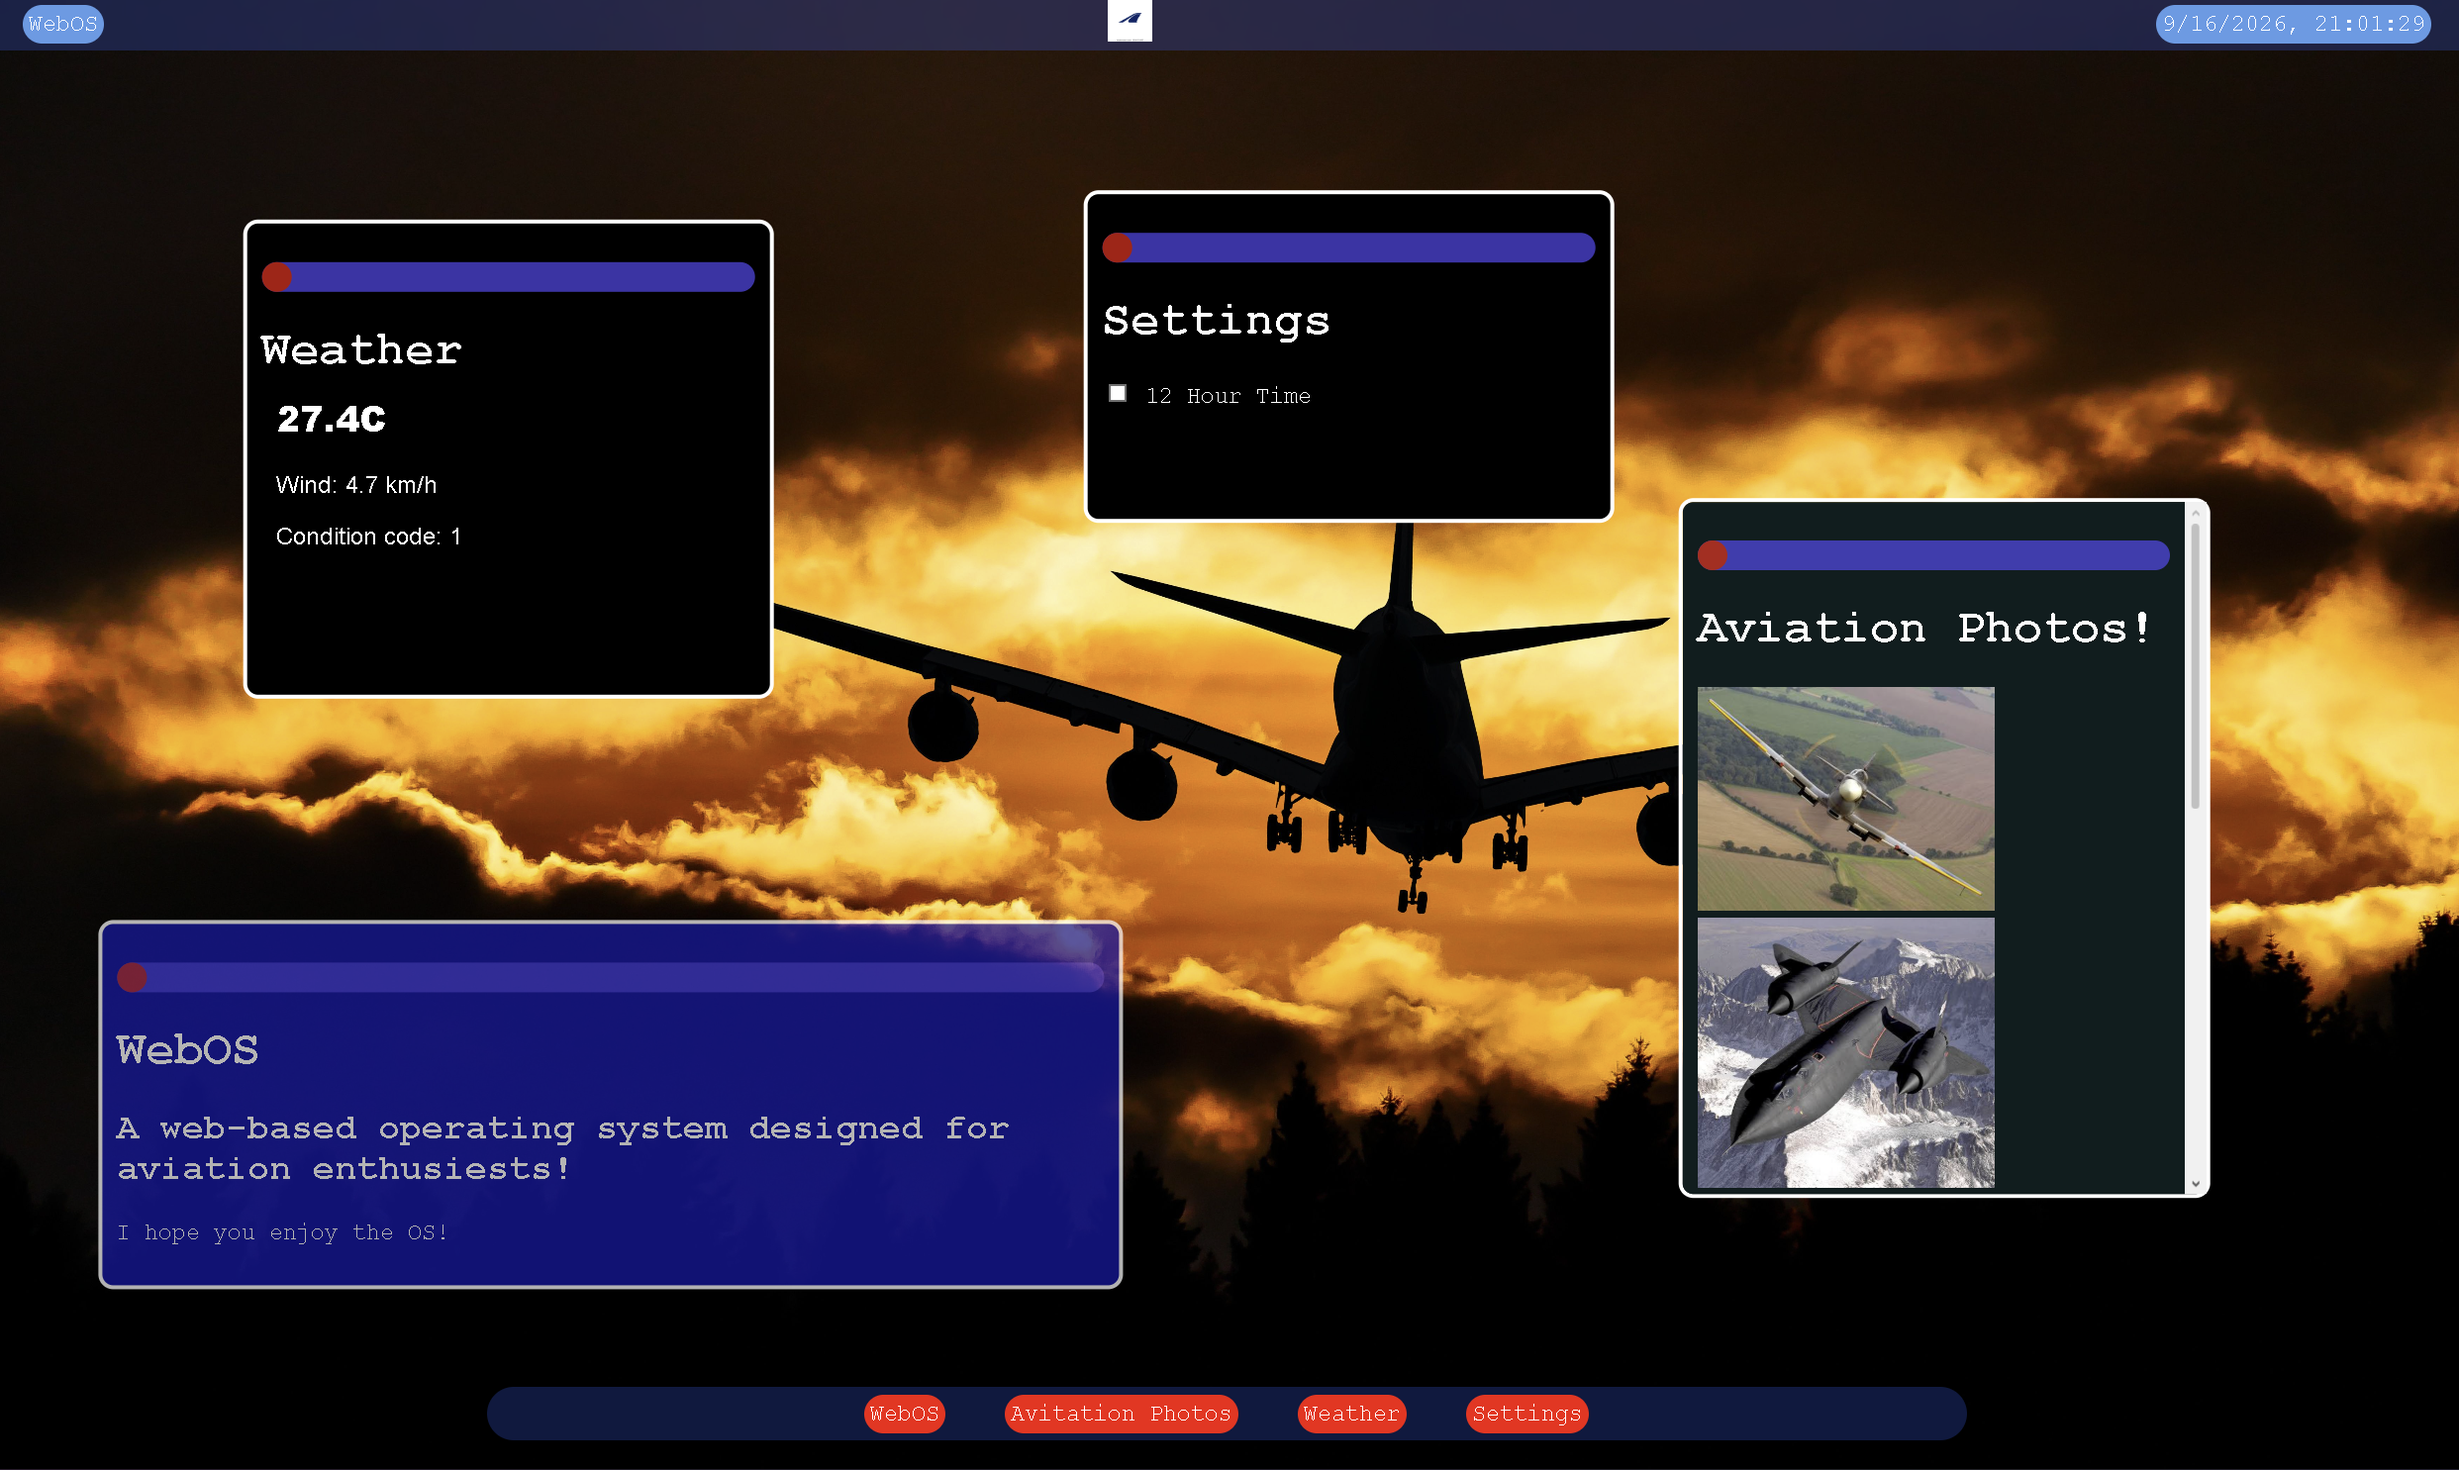
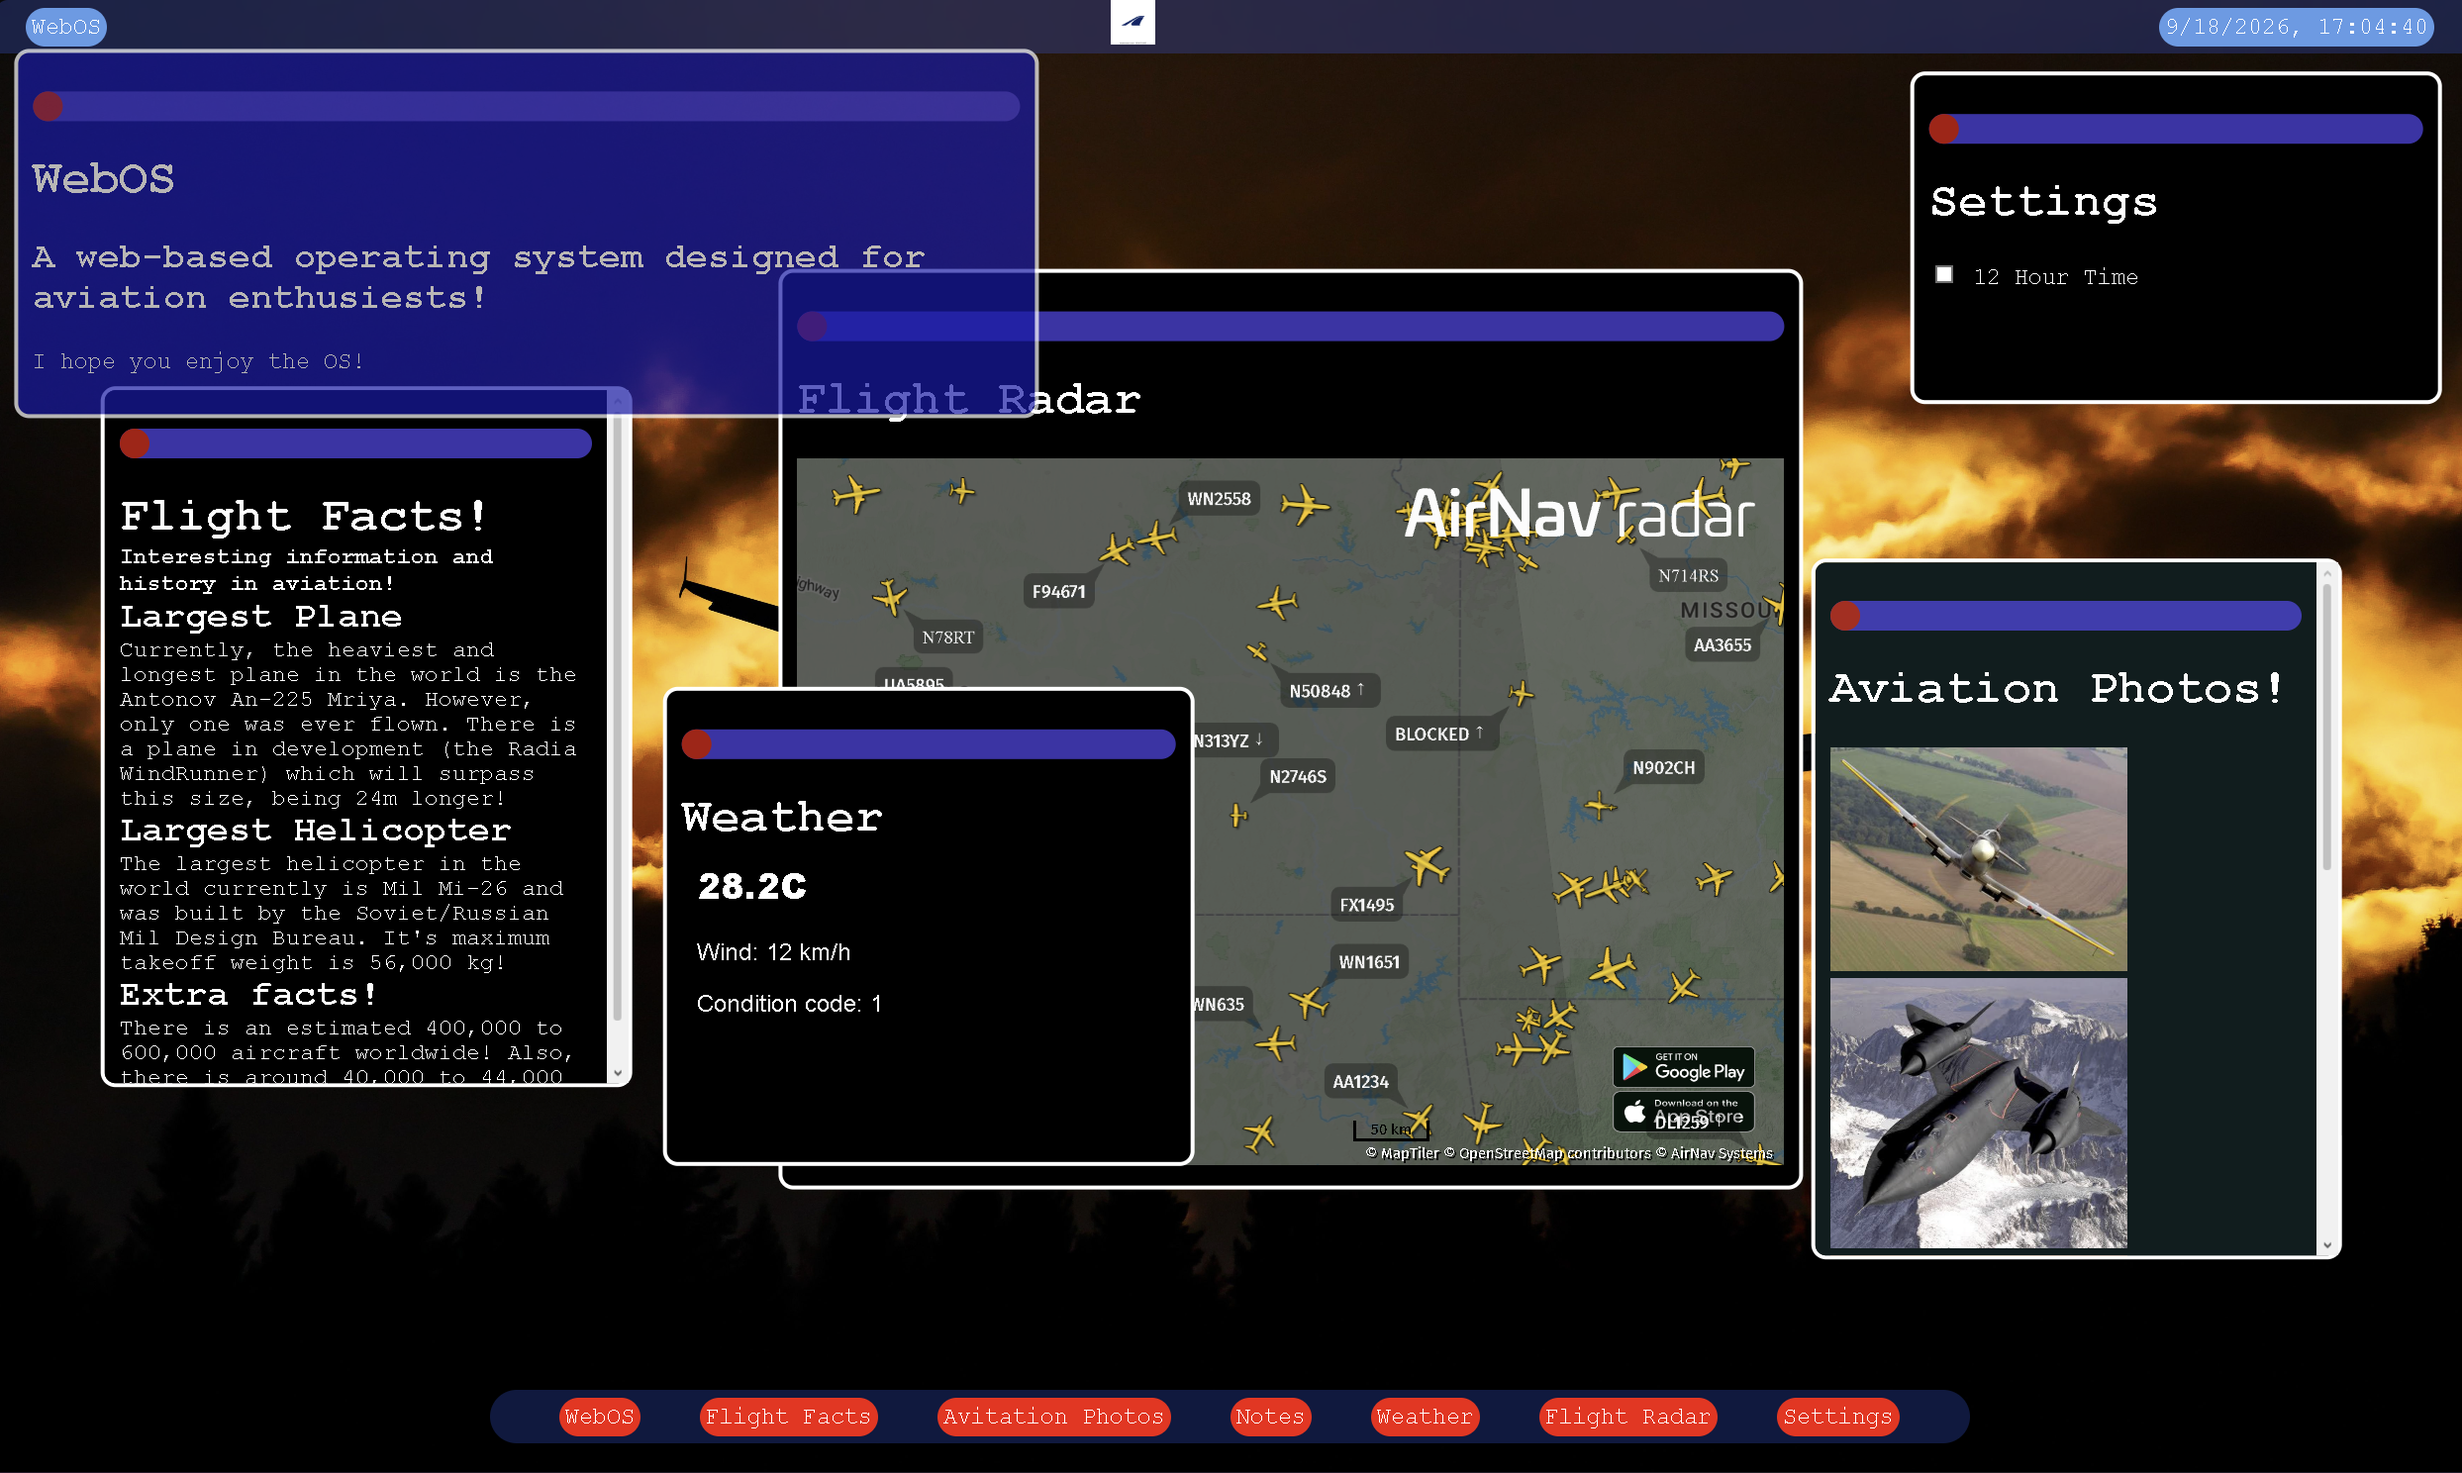
commit

diff --git a/index.html b/index.html
@@ -11,7 +11,7 @@
             font-family: 'Courier New', Courier, monospace;
         }
     </style>
-    <title>Web OS</title>
+    <title>WebOS</title>
     <link rel="icon" type="image/x-icon" href="images/Aeroplane logo.webp">
     <link rel="stylesheet" href="style.css">
 </head>
@@ -38,13 +38,38 @@
             </div>
             </p>
         </div>
-        <h1>Web OS</h1>
+        <h1>WebOS</h1>
         <h2>A web-based operating system designed for aviation enthusiests!</h2>
         <p>I hope you enjoy the OS!</p>
     </div>
 
 
-  
+    <div style="background-color:#000000;color:white;border:solid;padding:10px;position:absolute;border-radius:10px;width:20%;top:50%;left:15%;transform:translate(-50%, -50%);display:none;height:45%;overflow-y:auto;"
+        id="aboutme">
+        <div style="width:100%;background-color:rgb(78, 63, 243);opacity:70%;margin:0;border-radius:20px;cursor:pointer;height:20px;"
+            id="aboutmeheader">
+            <p style="cursor: pointer;">
+            <div id="aboutmeclose" style="background-color:red;border-radius:20px;width:20px;height:20px;margin-top:0;">
+            </div>
+            </p>
+        </div>
+        <h1 style="margin-bottom:0;">Flight Facts!</h1>
+        <h2 style="margin:0;color:rgb(255, 255, 255);font-size:15px;">Interesting information and history in aviation!</h2>
+        <h2 style="margin-bottom:0;">Largest Plane</h2>
+        <p style="margin:0;color:rgb(255, 255, 255);font-size:15px;">Currently, the heaviest and longest plane in the world is the
+            Antonov An-225 Mriya. However, only one was ever flown.
+            There is a plane in development (the Radia WindRunner) which will surpass this size, being 24m longer!
+        </p>
+        <h2 style="margin-bottom:0;">Largest Helicopter</h2>
+        <p style="margin:0;color:rgb(255, 255, 255);font-size:15px;">The largest helicopter in the world currently is Mil Mi-26 and
+            was built by the Soviet/Russian Mil Design
+            Bureau.
+            It's maximum takeoff weight is 56,000 kg!
+        </p>
+        <h2 style="margin-bottom:0;">Extra facts!</h2>
+        <p style="margin:0;color:rgb(255, 255, 255);font-size:15px;">There is an estimated 400,000 to 600,000 aircraft worldwide!
+            Also, there is around 40,000 to 44,000 airports worldwide!</p>
+    </div>
 
     <div style="background-color:#0b1d1e;color:white;border:solid;padding:10px;position:absolute;border-radius:10px;width:20%;top:50%;left:85%;transform:translate(-50%, -50%);display:none;height:45%;overflow-y:auto;"
         id="photos">
@@ -55,13 +80,32 @@
             </div>
             </p>
         </div>
-        <h1>Aviation Photos!</h1>
+        <h1>Aviation Photos!!!!</h1>
         <img src="images/Aviation 1.jpg" width="200">
         <img src="images/Aviation 2.jpg" width="200">
         <img src="images/Aviation 3.jpg" width="200">
         <img src="images/Aviation 4.jpg" width="200">
         <img src="images/Aviation 5.jpg" width="200">
     </div>
+
+
+
+    <div style="background-color:#060606;color:white;border:solid;padding:10px;position:absolute;border-radius:10px;width:20%;top:50%;left:55%;transform:translate(-50%, -50%);display:none;height:45%;"
+        id="notes">
+        <div style="width:100%;background-color:rgb(78, 63, 243);opacity:70%;margin:0;border-radius:20px;cursor:pointer;height:20px;"
+            id="notesheader">
+            <p style="cursor: pointer;">
+            <div id="notesclose" style="background-color:red;border-radius:20px;width:20px;height:20px;margin-top:0;">
+            </div>
+            </p>
+        </div>
+        <h1>Notes</h1>
+        <div style="max-width:500px;margin:auto;">
+            <textarea id="notepad" style="width:100%;height:200px;font-size:16px;background-color:beige;"></textarea>
+        </div>
+    </div>
+
+
 
     <div style="background-color:#000000;color:white;border:solid;padding:10px;position:absolute;border-radius:10px;width:20%;top:60%;left:35%;transform:translate(-50%, -50%);display:none;height:30%;"
         id="weather">
@@ -114,6 +158,19 @@
 
     </div>
 
+    <div style="background-color:#000000;color:white;border:solid;padding:10px;position:absolute;border-radius:10px;width:40%;top:40%;left:45%;transform:translate(-50%, -50%);display:none;height:60%;"
+        id="flights">
+        <div style="width:100%;background-color:rgb(78, 63, 243);opacity:70%;margin:0;border-radius:20px;cursor:pointer;height:20px;"
+            id="flightsheader">
+            <p style="cursor: pointer;">
+            <div id="flightsClose" style="background-color:red;border-radius:20px;width:20px;height:20px;margin-top:0;">
+            </div>
+            </p>
+        </div>
+        <h1>Flight Radar</h1>
+<iframe frameborder="0" scrolling="no" marginheight="0" marginwidth="0" width=100% height=80% loading="lazy" src="https://www.airnavradar.com/?widget=1&z=6&lat=37.60318&lng=-95.86094&hideAirportWeather=true&hideAirportCard=true&airportCardRight=true&hideFlightCard=true&showLabels=true&showFn=true"></iframe>
+
+
     </div>
 
     <div style="background-color:#000000;color:white;border:solid;padding:10px;position:absolute;border-radius:10px;width:20%;top:40%;left:65%;transform:translate(-50%, -50%);display:none;height:20%;"
@@ -136,11 +193,17 @@
     <div
         style="display:flex;justify-content:center;backdrop-filter: blur(5px); background-color: rgba(0, 94, 255, 0.25);width:60%;color:#fff;position:fixed;bottom:2%;left:20%;border-radius:20px;">
         <p style="margin:5px 20px 5px 20px;background-color:rgb(255, 0, 0);border-radius:20px;padding:4px;cursor:pointer;"
-            id="welcomeopen">Web OS</p>
+            id="welcomeopen">WebOS</p>
         <p style="margin:5px 20px 5px 20px;background-color:rgb(255, 0, 0);border-radius:20px;padding:4px;cursor:pointer;"
-            id="photosScreenOpen">Avitation Photographs</p>
+            id="aboutMeScreenOpen">Flight Facts</p>
+        <p style="margin:5px 20px 5px 20px;background-color:rgb(255, 0, 0);border-radius:20px;padding:4px;cursor:pointer;"
+            id="photosScreenOpen">Avitation Photos</p>
+        <p style="margin:5px 20px 5px 20px;background-color:rgb(255, 0, 0);border-radius:20px;padding:4px;cursor:pointer;"
+            id="notesOpen">Notes</p>
         <p style="margin:5px 20px 5px 20px;background-color:rgb(255, 0, 0);border-radius:20px;padding:4px;cursor:pointer;"
             id="weatherOpen">Weather</p>
+        <p style="margin:5px 20px 5px 20px;background-color:rgb(255, 0, 0);border-radius:20px;padding:4px;cursor:pointer;"
+            id="flightsOpen">Flight Radar</p>
         <p style="margin:5px 20px 5px 20px;background-color:rgb(255, 0, 0);border-radius:20px;padding:4px;cursor:pointer;"
             id="settingsOpen">Settings</p>
     </div>

diff --git a/script.js b/script.js
@@ -4,6 +4,9 @@ var welcomeScreen = document.querySelector("#welcome");
 var welcomeScreenClose = document.querySelector("#welcomeclose");
 var welcomeScreenOpen = document.querySelector("#welcomeopen");
 
+var aboutMeScreen = document.querySelector("#aboutme");
+var aboutMeScreenClose = document.querySelector("#aboutmeclose");
+var aboutMeScreenOpen = document.querySelector("#aboutMeScreenOpen");
 
 var photosScreen = document.querySelector("#photos");
 var photosScreenClose = document.querySelector("#photosclose");
@@ -13,6 +16,13 @@ var weather = document.querySelector("#weather");
 var weatherClose = document.querySelector("#weatherClose");
 var weatherOpen = document.querySelector("#weatherOpen");
 
+var notes = document.querySelector("#notes");
+var notesClose = document.querySelector("#notesclose");
+var notesOpen = document.querySelector("#notesOpen");
+
+var flights = document.querySelector("#flights");
+var flightsClose = document.querySelector("#flightsClose");
+var flightsOpen = document.querySelector("#flightsOpen");
 
 var settings = document.querySelector("#settings");
 var settingsClose = document.querySelector("#settingsClose");
@@ -58,8 +68,11 @@ function dragElement(elmnt) {
 
 window.onload = function () {
   dragElement(document.getElementById("welcome"));
+  dragElement(document.getElementById("aboutme"));
   dragElement(document.getElementById("photos"));
+  dragElement(document.getElementById("notes"));
   dragElement(document.getElementById("weather"));
+  dragElement(document.getElementById("flights"));
   dragElement(document.getElementById("settings"));
 };
 
@@ -85,8 +98,11 @@ function addWindowTapHandling(element) {
 }
 
 addWindowTapHandling(welcomeScreen);
+addWindowTapHandling(aboutMeScreen);
 addWindowTapHandling(photosScreen);
+addWindowTapHandling(notes);
 addWindowTapHandling(weather);
+addWindowTapHandling(flights);
 addWindowTapHandling(settings);
 
 welcomeScreenClose.addEventListener("click", function () {
@@ -97,12 +113,28 @@ welcomeScreenOpen.addEventListener("click", function () {
   openWindow(welcomeScreen);
 });
 
+aboutMeScreenClose.addEventListener("click", function () {
+  closeWindow(aboutMeScreen);
+});
+
+aboutMeScreenOpen.addEventListener("click", function () {
+  openWindow(aboutMeScreen);
+});
+
 photosScreenClose.addEventListener("click", function () {
   closeWindow(photosScreen);
 });
 
 photosScreenOpen.addEventListener("click", function () {
   openWindow(photosScreen);
+});
+
+notesClose.addEventListener("click", function () {
+  closeWindow(notes);
+});
+
+notesOpen.addEventListener("click", function () {
+  openWindow(notes);
 });
 
 weatherClose.addEventListener("click", function () {
@@ -119,6 +151,23 @@ settingsClose.addEventListener("click", function () {
 
 settingsOpen.addEventListener("click", function () {
   openWindow(settings);
+});
+
+flightsClose.addEventListener("click", function () {
+  closeWindow(flights);
+});
+
+flightsOpen.addEventListener("click", function () {
+  openWindow(flights);
+});
+
+
+
+document.getElementById("notepad").value =
+  localStorage.getItem("notepad_text") || "";
+
+document.getElementById("notepad").addEventListener("input", function () {
+  localStorage.setItem("notepad_text", this.value);
 });
 
 

diff --git a/README.md b/README.md
@@ -1,11 +1,15 @@
 # WEBOS
-A peaceful, web based operating system for those who like aviation :)))))))))))
-![Screenshot of WebOS](images/WebOS Screenshot.png)
+A peaceful, web based operating system for those who like aviation :))))))))
+![Screenshot of WebOS Air](images/WebOS Screenshot.png)
 ## Features
 - Welcome Screen
 - Cool background
 - Aviation Photos
+- Notepad that saves to localstorage
 - Weather
+- Aviation Facts
+- Iframe to flight tracking map
+- Flight tracker uses lazy loading
 - Moveable and closeable windows that change the one on top to most recently accessed
 - Settings page with 12/24 hour time
 
@@ -14,9 +18,9 @@ A peaceful, web based operating system for those who like aviation :)))))))))))
 Access the demonstration website at: https://cosmic79conqueror-coder.github.io/Web-OS/
 
 
-## Attribution
 ### Guides and Assistance
 https://jams.hackclub.com/batch/webOS I followed this amazing guide for a lot of the way - but changed styling and overall looks, format, and setup.
 
 
-I hope you will enjoy Trying it out :)))))))))))))))
+
+I hope you enjoy :))))))
